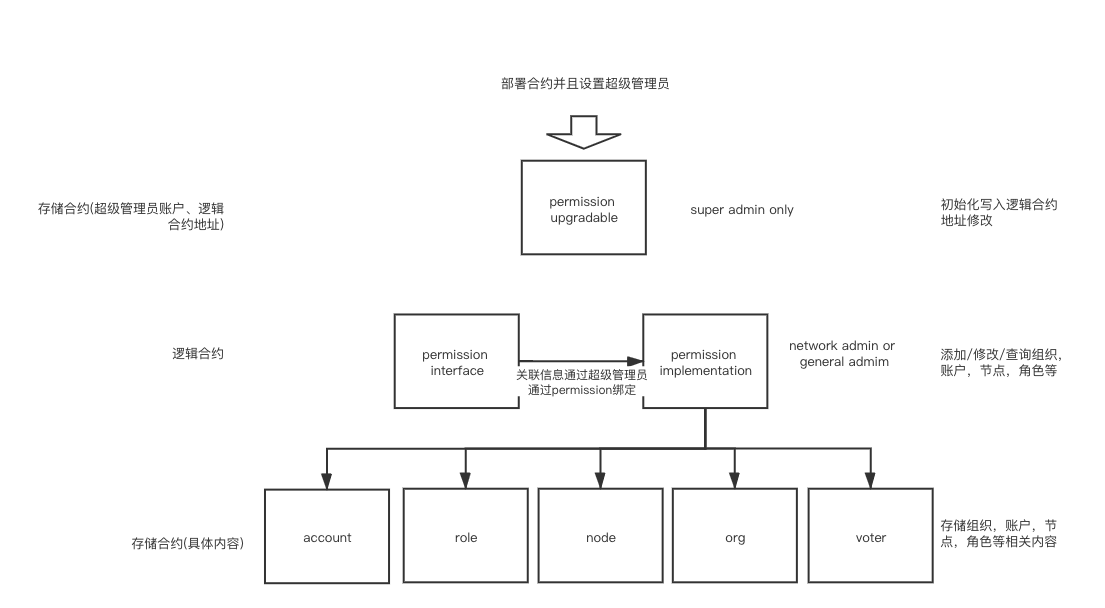
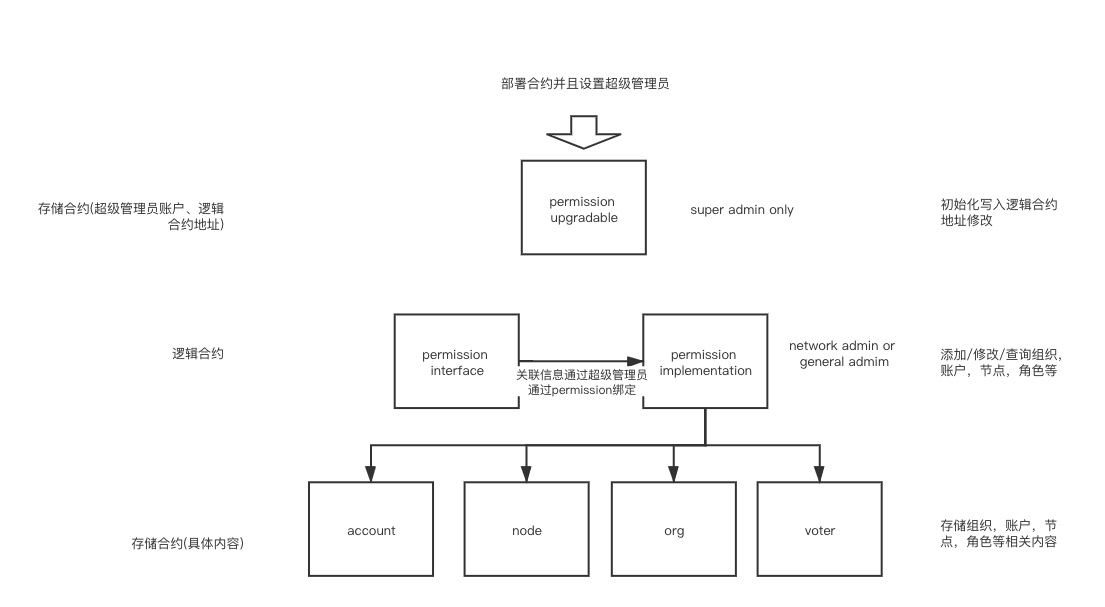
chiron vitural and cryptography document  update

diff --git a/source/design/virtual_machine/virtual.md b/source/design/virtual_machine/virtual.md
@@ -1,0 +1,247 @@
+# 虚拟机和智能合约
+
+## 智能合约概述
+账户
+  - 两类账户（它们共用同一个地址空间）： 外部账户 由公钥-私钥对（也就是人）控制； 合约账户 由和账户一起存储的代码控制. 外部账户的地址是由公钥决定的，而合约账户的地址是在创建该合约时确定的（这个地址通过合约创建者的地址和从该地址发出过的交易数量计算得到的，也就是所谓的“nonce”） 无论帐户是否存储代码，这两类账户对 TVM 来说是一样的。 每个账户都有一个键值对形式的持久化存储。其中 key 和 value 的长度都是256位，我们称之为存储。
+
+交易
+  - 交易可以看作是从一个帐户发送到另一个帐户的消息。它能包含数据和ZV币。
+  - 如果目标账户含有代码，此代码会被执行，并以 payload 作为入参。
+  - 如果目标账户是零账户，此交易将创建一个新合约 。
+  - 合约地址是通过合约创建者的地址和从该地址发出过的交易数量(nonce)计算得到的。这个用来创建合约的交易的 payload 会被转换为 TVM 字节码并执行。执行的输出将作为合约代码被永久存储。这意味着，为创建一个合约，你不需要发送实际的合约代码，而是发送能够产生合约代码的代码。
+
+智能合约的生命周期
+
+ ![](recycle.png)
+ 
+一个简单的智能合约：
+```
+class Storage(object):  
+    def __init__(self):  
+        self.data = 0  
+    @register.public(int)  
+    def set_data(self, num):  
+        self.data = num  
+```
+合约主要由合约代码和合约数据两部分组成，它们都位于部署合约时生成的地址上。示例合约定义了一个名为Storage的合约，它提供了self.data这个数据的状态存储，并提供了一个set_data接口来修改它。该合约只能提供简单的功能：它能允许任何人在合约中存储一个单独的数字，并且这个数字可以被世界上任何人访问。同时，任何人都可以再次调用 set_data，传入不同的值，覆盖你的数字，但是这个数字仍会被存储在区块链的历史记录中。
+
+## 虚拟机概述
+
+链内置的虚拟机是轻量级的Python解释器，并且针对智能合约使用场景，做了针对性优化、裁剪、改动。
+
+虚拟机执行合约需要消耗资源，防止被用户恶意调用合约，使用Gas机制控制资源消耗。
+
+与CPython的异同点：
+主要删减的功能：
+  - 禁止使用float类型
+  - 禁止使用IO相关功能。io module
+  - 禁止使用线程功能。threading module
+  - 禁止使用eval、exec功能。
+  - 禁止使用网络相关功能。sockect module
+  - 禁止使用os module。
+
+主要添加的功能：
+  - 内置变量this：表示当前合约的地址(str)。
+  - 内置变量msg：合约运行时的相关信息，msg.sender表示调用者地址，msg.value表示调用时带入的资金（联盟链中该值永远为0）。
+  - 内置变量register：方法注册器，注册后的方法才可被外部调用。
+  - 内置类型zdict：为存储适配的存储键值对的内置类型。
+  - 内置类型Event：该类型实例的emit方法可打印数据到交易回执。
+  
+ ## 合约说明
+ 
+###智能合约与链交互的其他方法
+```
+1.import account  
+2.import block  
+3.  
+4.''''' 
+5.@str: 要查询的地址 
+6.returns(int) 返回地址的余额 
+7.'''  
+8.account.get_balance(str)  
+9.  
+10.''''' 
+11.@str: 要转账的地址 
+12.@int: 要转账的金额 
+13.returns(bool) 返回转账是否成功 
+14.'''  
+15.account.transfer(str, int)  
+16.  
+17.''''' 
+18.@int: 要查询的块高 
+19.returns(str) 返回查询的块hash 
+20.'''  
+21.block.blockhash(int)  
+22.  
+23.''''' 
+24.returns(str) 返回当前块高 
+25.'''  
+26.block.number()
+
+```
+ 
+### 合约支持的数据存储
+```
+1.class Foo(object):  
+2.    def __init__(self):# 基础类型存储  
+3.        self.a = {"1":2,"2":3} # Error  
+4.        self.b = (1,2,3) # Error  
+5.        self.c = [1,2,3,4] # Error  
+6.        self.d = 1  
+7.        self.e = "abc"  
+8.        self.f = True  
+9.        # map类型存储  
+10.        self.g = zdict()  
+11.        self.g[1] = "abc" # Error  
+12.        self.g["1"] = "abc"  
+13.        self.g["key1"] = "abc"  
+14.        self.g["key2"] = True 
+```
+
+## 智能合约示例
+### 积分合约：
+```
+1.TransferEvent = Event("transfer")  
+2.class Token(object):  
+3.    def __init__(self):  
+4.        self.name = "TTT"  
+5.        self.symbol = "TTT"  
+6.        self.decimal = 2  
+7.        self.totalSupply = 1000000  
+8.        self.balanceOf = zdict()  
+9.        self.allowance = zdict()  
+10.        self.balanceOf[msg.sender] = self.totalSupply  
+11.  
+12.    def _transfer(self, _from, _to, _value):  
+13.        if _to not in self.balanceOf:  
+14.            self.balanceOf[_to] = 0  
+15.        if _from not in self.balanceOf:  
+16.            self.balanceOf[_from] = 0  
+17.        # Whether the account balance meets the transfer amount  
+18.        if self.balanceOf[_from] < _value:  
+19.            return False  
+20.        # Check if the transfer amount is legal  
+21.        if _value <= 0:  
+22.            return False  
+23.        # Transfer  
+24.        self.balanceOf[_from] -= _value  
+25.        self.balanceOf[_to] += _value  
+26.        return True  
+27. 
+28.    @register.public(str, int)  
+29.    def transfer(self, _to, _value):  
+30.        if self._transfer(msg.sender, _to, _value):  
+31.            TransferEvent.emit(msg.sender, _to, _value)  
+32.        else:  
+33.            raise Exception("")  
+34. 
+35.    @register.public(str, int)  
+36.    def approve(self, _spender, _value):  
+37.        if _value <= 0:  
+38.            raise Exception('')  
+39.        if msg.sender not in self.allowance:  
+40.            self.allowance[msg.sender] = zdict()  
+41.        self.allowance[msg.sender][_spender] = _value  
+42. 
+43.    @register.public(str, str, int)  
+44.    def transfer_from(self, _from, _to, _value):  
+45.        if _value > self.allowance[_from][msg.sender]:  
+46.            raise Exception('')  
+47.        self.allowance[_from][msg.sender] -= _value  
+48.        if self._transfer(_from, _to, _value):  
+49.            TransferEvent.emit(_from, _to, _value)  
+50.        else:  
+51.            raise Exception("")  
+52. 
+53.    @register.public(int)  
+54.    def burn(self, _value):  
+55.        if _value <= 0:  
+56.            raise Exception('')  
+57.        if self.balanceOf[msg.sender] < _value:  
+58.            raise Exception('')  
+59.        self.balanceOf[msg.sender] -= _value  
+60.        self.totalSupply -= _value
+```
+
+### 猜拳合约
+```
+1.import block  
+2.import account  
+3.  
+4.  
+5.class ContractFingerGuessing():  
+6.    def __init__(self):  
+7.        self.games = zdict()  
+8. 
+9.    @register.public(str, str, str)  
+10.    def make_gestures(self, session, account, gestures):  
+11.        if not self.games.has_key(session):  
+12.            self.games[session] = {}  
+13.        if len(self.games[session].items()) < 2:  
+14.            self.games[session].account.gestures = gestures  
+15. 
+16.    @register.public(str)  
+17.    def game_result(self, session):  
+18.        if self.games.has_key(session):  
+19.            gestures_list = self.games[session].items()  
+20.            if len(gestures_list) == 2:  
+21.                a = gestures_list[0][1].gestures  
+22.                b = gestures_list[1][1].gestures  
+23.                if (a == "rock" and b == "scissors") or (a == "scissors" and b == "paper") | | (  
+24.                        a == "paper" and b == "rock"):  
+25.                    self.games[session].winner = gestures_list[0][0]  
+26.                else:  
+27.                    self.games[session].winner = gestures_list[1][0]
+```
+
+
+### 众筹合约：
+```
+
+1.import account  
+2.import block  
+3.  
+4.  
+5.class CrowdFunding():  
+6.    def deploy(self):  
+7.        self.funding_goal = 10000  
+8.        self.funding = 0  
+9.        self.max_block_number = block.number() + 1000  
+10.        self.vote_dict = zdict  
+11.        self.on_sale = True  
+12.        self.owner = msg.sender  
+13. 
+14.    @register.public()  
+15.    def sale(self):  
+16.        if self.max_block_number < block.number():  
+17.            self.on_sale = False  
+18.        if not self.on_sale:  
+19.            raise Exception("not on sale")  
+20.        value = msg.value  
+21.        sender = msg.sender  
+22.        self.funding = self.funding + value  
+23.        if self.funding > self.funding_goal:  
+24.            value = self.funding_goal - self.funding  
+25.            self.on_sale = False  
+26.            account.transfer(sender, value)  
+27.            return  
+28.        balance = self.vote_dict.get(sender, 0)  
+29.        self.vote_dict[sender] = balance + value  
+30.        print(self.vote_dict)  
+31. 
+32.    @register.public(str)  
+33.    def withdraw(self, addr):  
+34.        if self.owner != msg.sender:  
+35.            return  
+36.        if not self.on_sale and self.funding >= self.funding_goal:  
+37.            account.transfer(addr, self.funding)  
+38. 
+39.    @register.public()  
+40.    def failed(self):  
+41.        if not self.on_sale and self.funding < self.funding_goal and self.funding >= account.get_balance(this):  
+42.            for k, v in self.vote_dict.items():  
+43.                account.transfer(k, v)
+```
+
+ 
+ 

diff --git a/source/design/security_control/innovation_cryptography.md b/source/design/security_control/innovation_cryptography.md
@@ -1,0 +1,18 @@
+# Chiron密码学和创新
+
+## 一、简介
+  Chiron共识对轻节点随机采样，形成若干个验证组，组协作VRF算法产生的真随机数作为PRG函数的随机种子，产生的随机数来确定当前slot的验证组，全网重节点根据上一块区块的随机数，进行VRF分组，随机选出当前slot的提案组，提案成员给出若干个候选区块提案定向广播给当前slot的验证组，验证组以组协作方式来完成候选区块验证，并通过门限签名方式达成组内共识向组外广播。
+  
+  出于数据的不可篡改性，以及可追溯性，如上图所示，Chiron机制采用双链模型，区块链和组链，来记录整个数据链产生过程。同时考虑组内节点可能会形成组内携手作恶，所以组有存续周期，到期后会解散重新进入随机采样分组流程。所以当系统进入稳定状态，每当进入一个新纪元（epoch）都可能有新组生效，老组解散的情况发生，每个纪元的工作组列表会发生相应变动。如下图所示。 
+
+## 二、Chiron铸块流程
+ Chiron铸块流程:
+ ![](proposal_block.png)
+ 
+ Chiron组周期解释图
+ ![](group_period.png)
+ 
+ ### 新组创建
+ 由于组成员是去中心化网络上的对等节点，现实中某些时刻，节点因种种原因不在线不可避免，比如网络信号不好，恶意节点故意不作为等等。所以我们设计验证组需要有(门限签名的能力，这里是组成员数，是恢复的门限值，通常。即有含门限个以上的组员对消息认可签名，就能代表全组个成员对消息的认可，并能恢复出全组对此消息的认可签名。这里我们采用了去中心化的Shamir秘密共享算法，来产生各个组员的组内签名私钥，组内签名公钥，以及代表组共识的组私钥对应的组公钥，得到上述密钥，并对组公钥达成共识，才算完成组创建。
+ 传统的Shamir密钥分享技术[20]，可以看过一个需要“中心”的过程。即它首先要有个“分发者”，“分发者”决定采用哪个秘密多项式，然后将秘密分解，发放给其他人。而区块链网络是去中心化的网络，每个节点都是平等，对等的节点，不应产生中心化的 “分发者”。另外，分发者是先于其他节点知道秘密的，如果分发者在过程中做恶，是很难预防的，因此我们采用了去中心化的密钥分享算法。其核心思想就是：让每个组员都成为“中心”（即秘密分发者），那结果就是没有物理上的“中心”。但会在组的逻辑层面上形成一个初始秘密（该秘密每个成员均不知晓）。每位组员通过下述步骤的前三步会形成一个组逻辑层面的分享秘密。类似传统Shamir密钥分享算法，分享秘密集合具有门限恢复初始秘密的能力，即中任意不少于个分享秘密均能恢复组初始秘密，任意少于个分享秘密均无法得到组初始秘密的任何信息。
+ 具体执行步骤如下：
